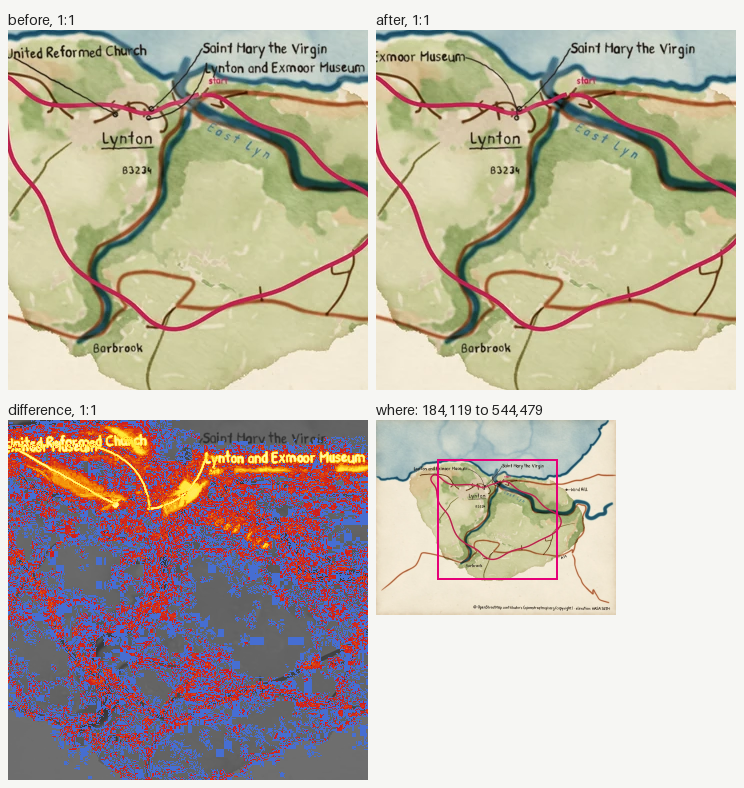
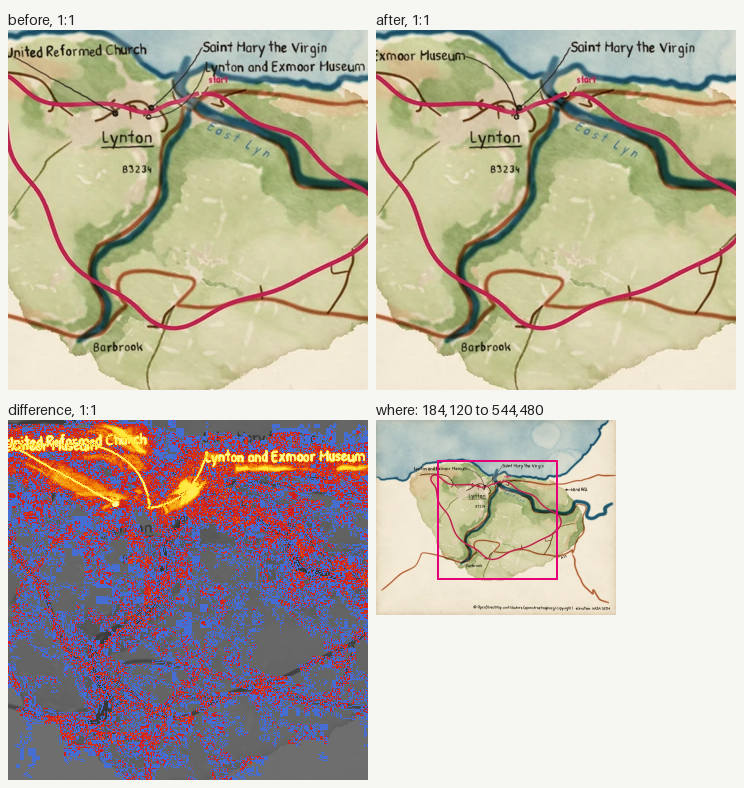
Review images for fix/47-long-landmark-names

diff --git a/fix/47-long-landmark-names/summary.md b/fix/47-long-landmark-names/summary.md
@@ -5,43 +5,43 @@ Changed counts the pixels past channel delta 2; the parity gate bounds it at 0.0
 
 | File | Size | Changed | Max delta | Box | Extent |
 |---|---|---|---|---|---|
-| `docs/images/how-to/command-line.webp` | 720x583 | 0.128507 (over 0.005) | 225 | 0,112 to 720,583 | widespread |
-| `tests/golden/docs/how-to/command-line.png` | 240x194 | 0.037973 (over 0.005) | 244 | 17,41 to 213,83 | local |
-| `tests/golden/lynmouth/labels-centreline.webp` | 1800x1457 | 0.054836 (over 0.005) | 255 | 114,304 to 1800,1022 | widespread |
-| `tests/golden/lynmouth/map.png` | 1800x1457 | 0.029916 (over 0.005) | 215 | 122,308 to 1590,620 | local |
+| `docs/images/how-to/command-line.webp` | 720x583 | 0.121172 (over 0.005) | 225 | 0,95 to 720,583 | widespread |
+| `tests/golden/docs/how-to/command-line.png` | 240x194 | 0.037414 (over 0.005) | 245 | 17,41 to 213,73 | local |
+| `tests/golden/lynmouth/labels-centreline.webp` | 1800x1457 | 0.054307 (over 0.005) | 255 | 114,304 to 1800,608 | local |
+| `tests/golden/lynmouth/map.png` | 1800x1457 | 0.029841 (over 0.005) | 215 | 122,308 to 1589,540 | local |
 
 <details open>
-<summary><code>docs/images/how-to/command-line.webp</code>: widespread, 0.128507</summary>
+<summary><code>docs/images/how-to/command-line.webp</code>: widespread, 0.121172</summary>
 
-![docs/images/how-to/command-line.webp: before, after and difference](docs/images/how-to/command-line.webp.diff.png)
+<img src="docs/images/how-to/command-line.webp.diff.png" alt="docs/images/how-to/command-line.webp: before, after and difference" width="720">
 
-![docs/images/how-to/command-line.webp: the most-changed region at 1:1](docs/images/how-to/command-line.webp.crop.png)
+<img src="docs/images/how-to/command-line.webp.crop.png" alt="docs/images/how-to/command-line.webp: the most-changed region at 1:1">
 
 </details>
 
 <details open>
-<summary><code>tests/golden/docs/how-to/command-line.png</code>: local, 0.037973</summary>
+<summary><code>tests/golden/docs/how-to/command-line.png</code>: local, 0.037414</summary>
 
-![tests/golden/docs/how-to/command-line.png: before, after and difference](tests/golden/docs/how-to/command-line.png.diff.png)
+<img src="tests/golden/docs/how-to/command-line.png.diff.png" alt="tests/golden/docs/how-to/command-line.png: before, after and difference" width="720">
 
-![tests/golden/docs/how-to/command-line.png: the most-changed region at 1:1](tests/golden/docs/how-to/command-line.png.crop.png)
-
-</details>
-
-<details open>
-<summary><code>tests/golden/lynmouth/labels-centreline.webp</code>: widespread, 0.054836</summary>
-
-![tests/golden/lynmouth/labels-centreline.webp: before, after and difference](tests/golden/lynmouth/labels-centreline.webp.diff.png)
-
-![tests/golden/lynmouth/labels-centreline.webp: the most-changed region at 1:1](tests/golden/lynmouth/labels-centreline.webp.crop.png)
+<img src="tests/golden/docs/how-to/command-line.png.crop.png" alt="tests/golden/docs/how-to/command-line.png: the most-changed region at 1:1">
 
 </details>
 
 <details open>
-<summary><code>tests/golden/lynmouth/map.png</code>: local, 0.029916</summary>
+<summary><code>tests/golden/lynmouth/labels-centreline.webp</code>: local, 0.054307</summary>
 
-![tests/golden/lynmouth/map.png: before, after and difference](tests/golden/lynmouth/map.png.diff.png)
+<img src="tests/golden/lynmouth/labels-centreline.webp.diff.png" alt="tests/golden/lynmouth/labels-centreline.webp: before, after and difference" width="720">
 
-![tests/golden/lynmouth/map.png: the most-changed region at 1:1](tests/golden/lynmouth/map.png.crop.png)
+<img src="tests/golden/lynmouth/labels-centreline.webp.crop.png" alt="tests/golden/lynmouth/labels-centreline.webp: the most-changed region at 1:1">
+
+</details>
+
+<details open>
+<summary><code>tests/golden/lynmouth/map.png</code>: local, 0.029841</summary>
+
+<img src="tests/golden/lynmouth/map.png.diff.png" alt="tests/golden/lynmouth/map.png: before, after and difference" width="720">
+
+<img src="tests/golden/lynmouth/map.png.crop.png" alt="tests/golden/lynmouth/map.png: the most-changed region at 1:1">
 
 </details>
